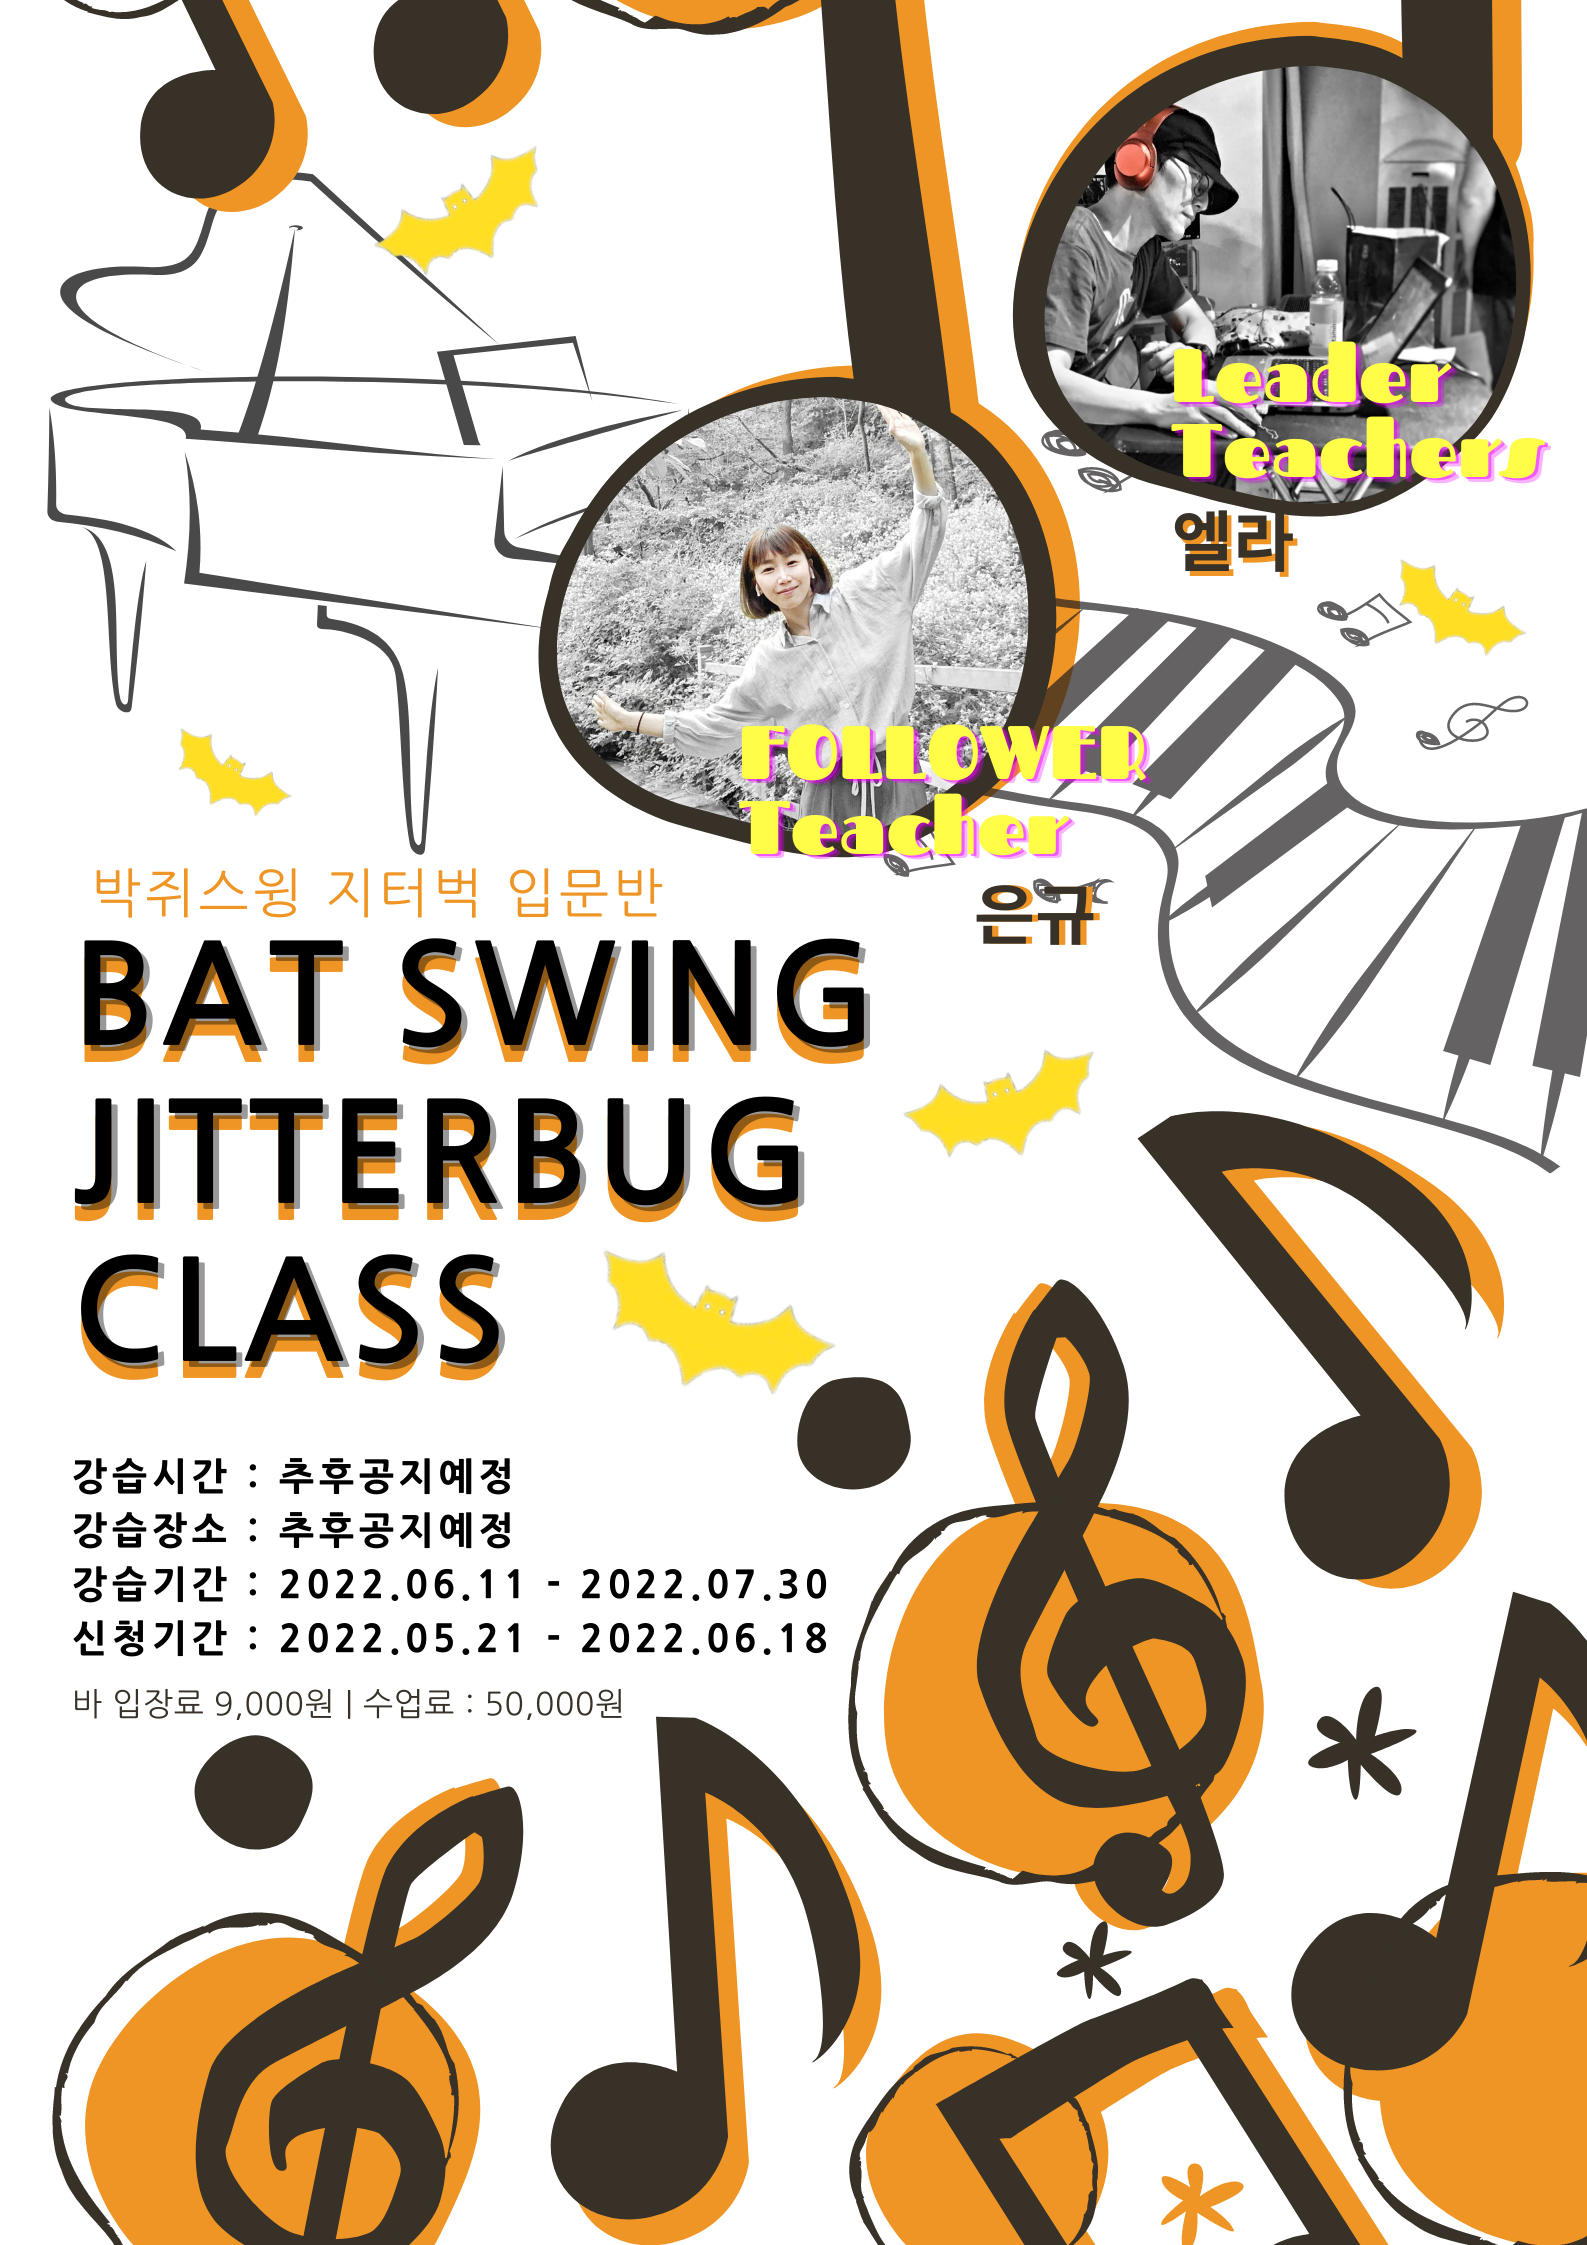
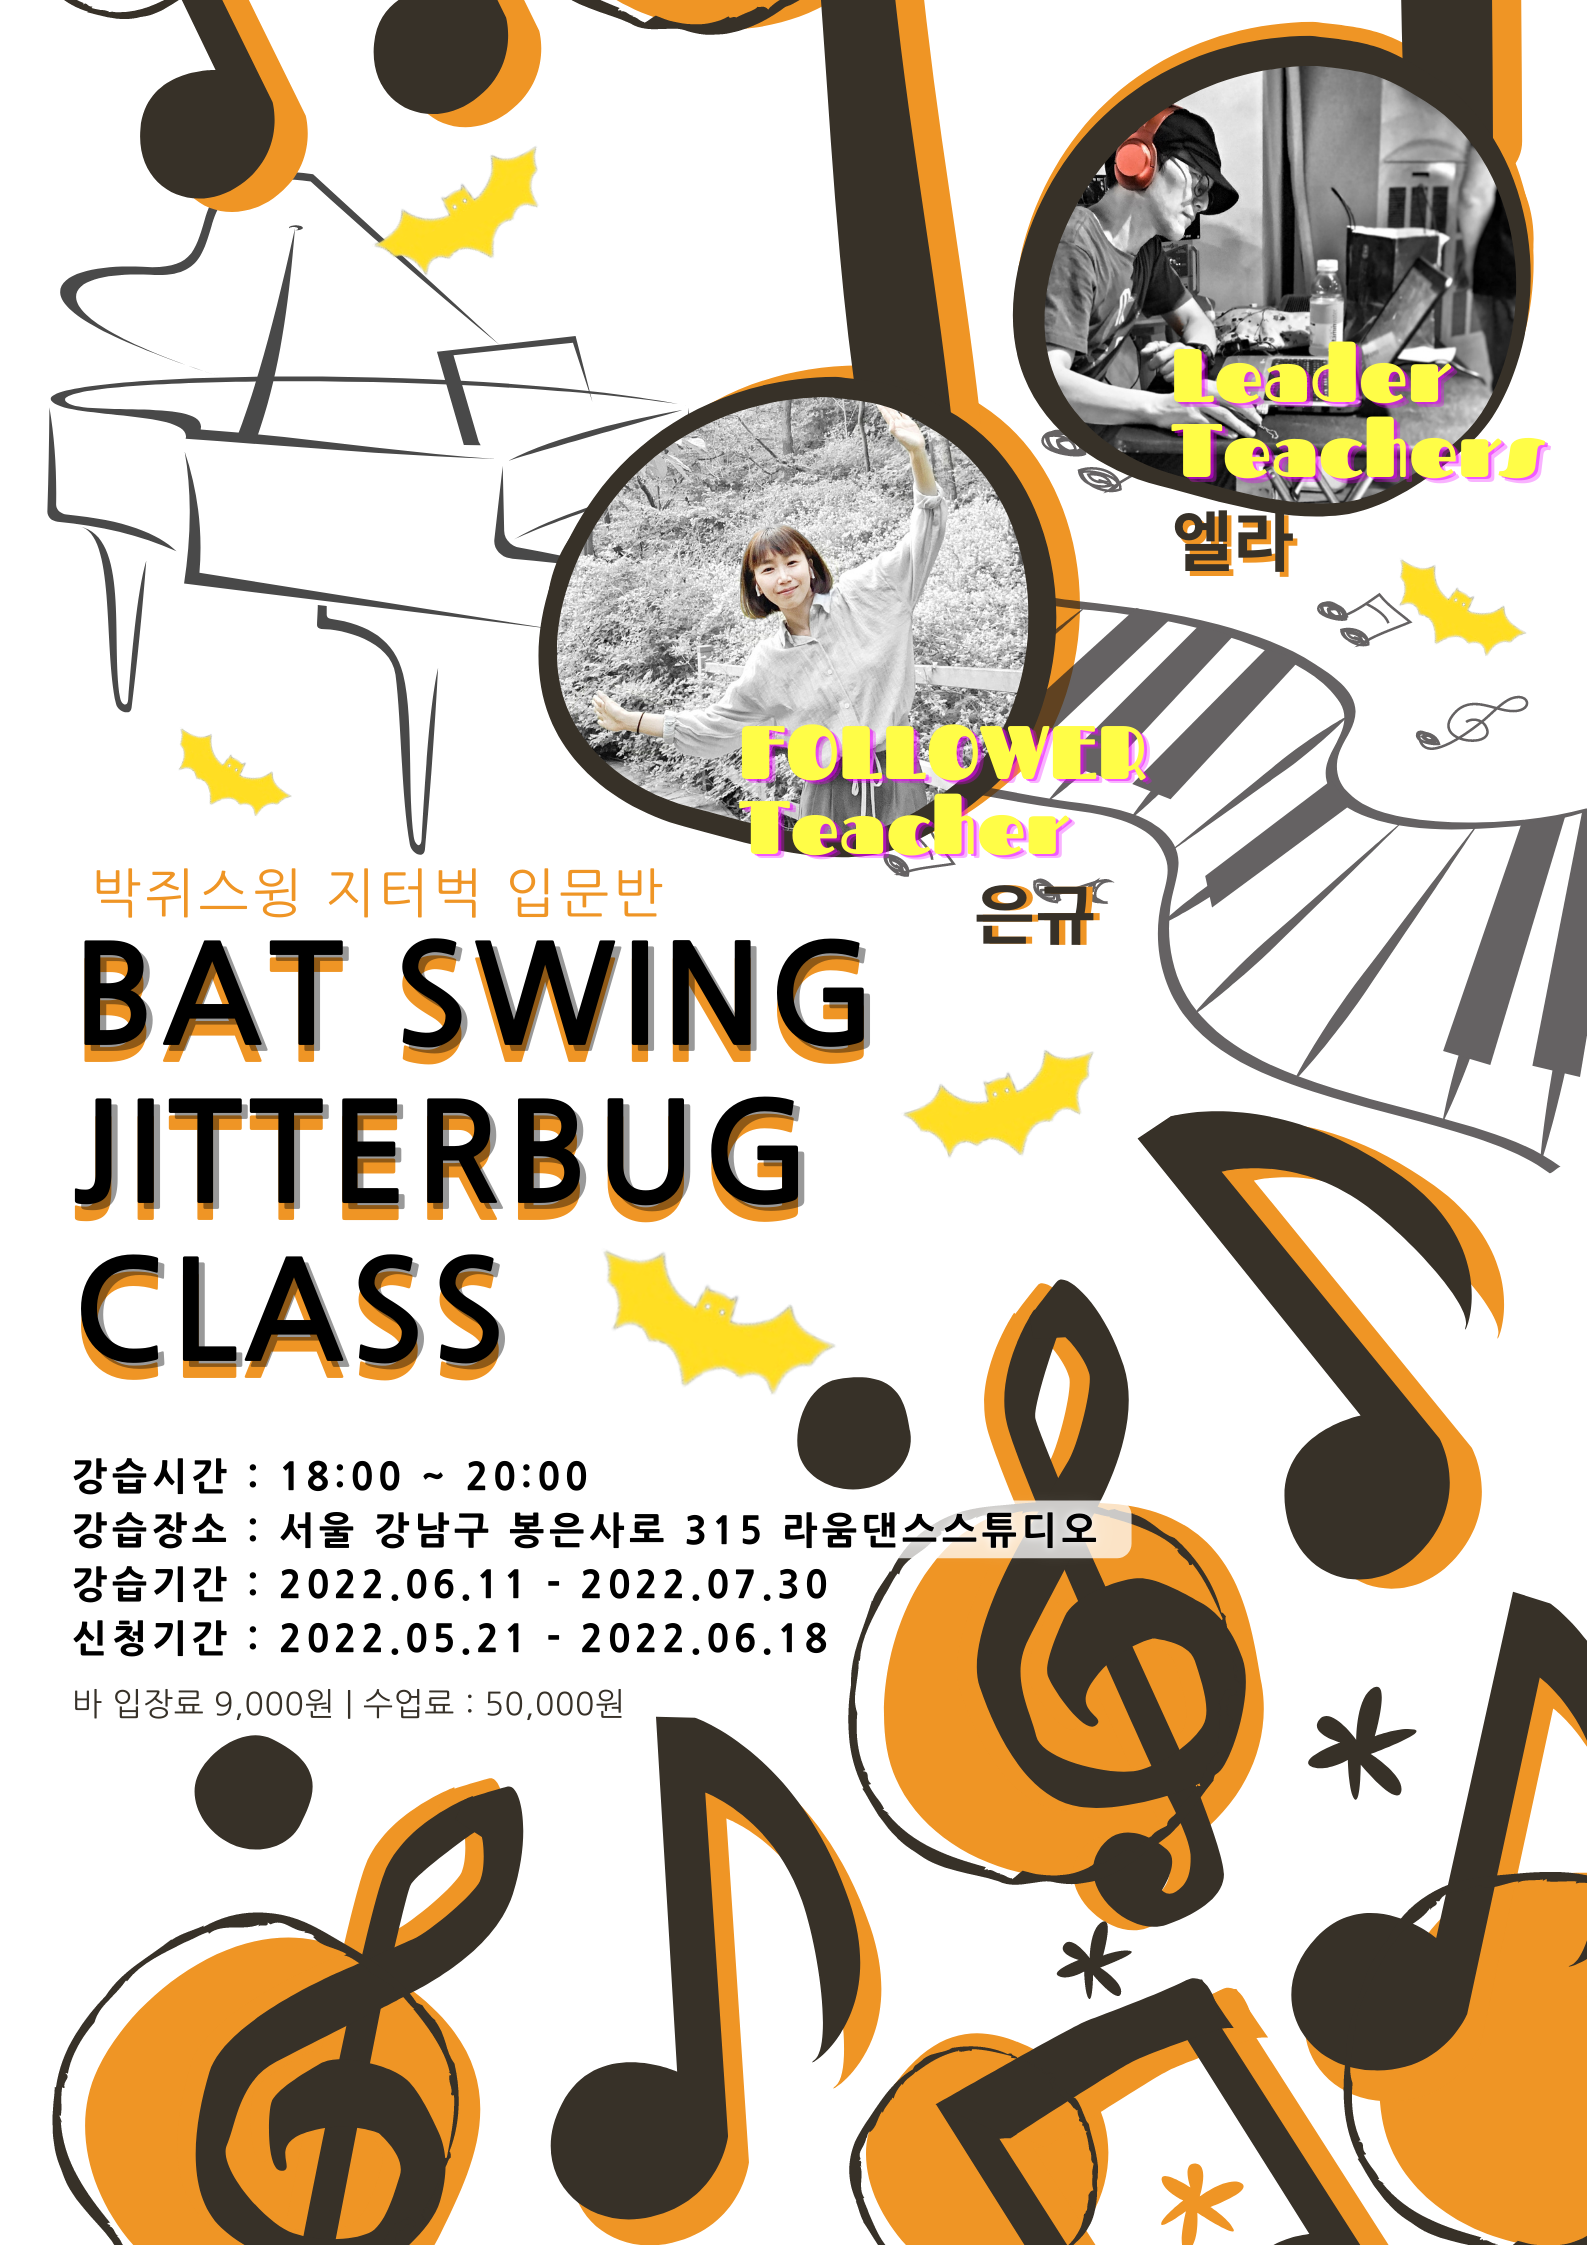
no message

Changed region(s): [[0.494, 0.6548, 0.7101, 0.7171], [0.1544, 0.6236, 0.4631, 0.686]]

diff --git a/index.html b/index.html
@@ -392,7 +392,7 @@
         <div class="class-image" style="background-image:url('/storage/class/96/96_jitterbug.png');"></div>
         <h2 class="text-class-red mt-2 mb-0 font-face-dohyeon">스윙입문(지터벅)</h2>
         <p class="text-dark mb-3"><small>엘라 & 은규</small></p>
-        <div class="mt-2"> <ul class='mb-3'> <li><strong>- 기간</strong> : 8주 강습(6/11 ~ 7/30)</li> <li><strong>- 시간</strong> : 토요일 (추후 공지 예정)</li> </ul> </div>
+        <div class="mt-2"> <ul class='mb-3'> <li><strong>- 기간</strong> : 8주 강습(6/11 ~ 7/30)</li> <li><strong>- 시간</strong> : 매주 토요일</li> <li><strong>- 장소</strong> : 봉은사로 315,B1 라움댄스 스튜디오 </li> </ul> </div>
         
           <p>
             
